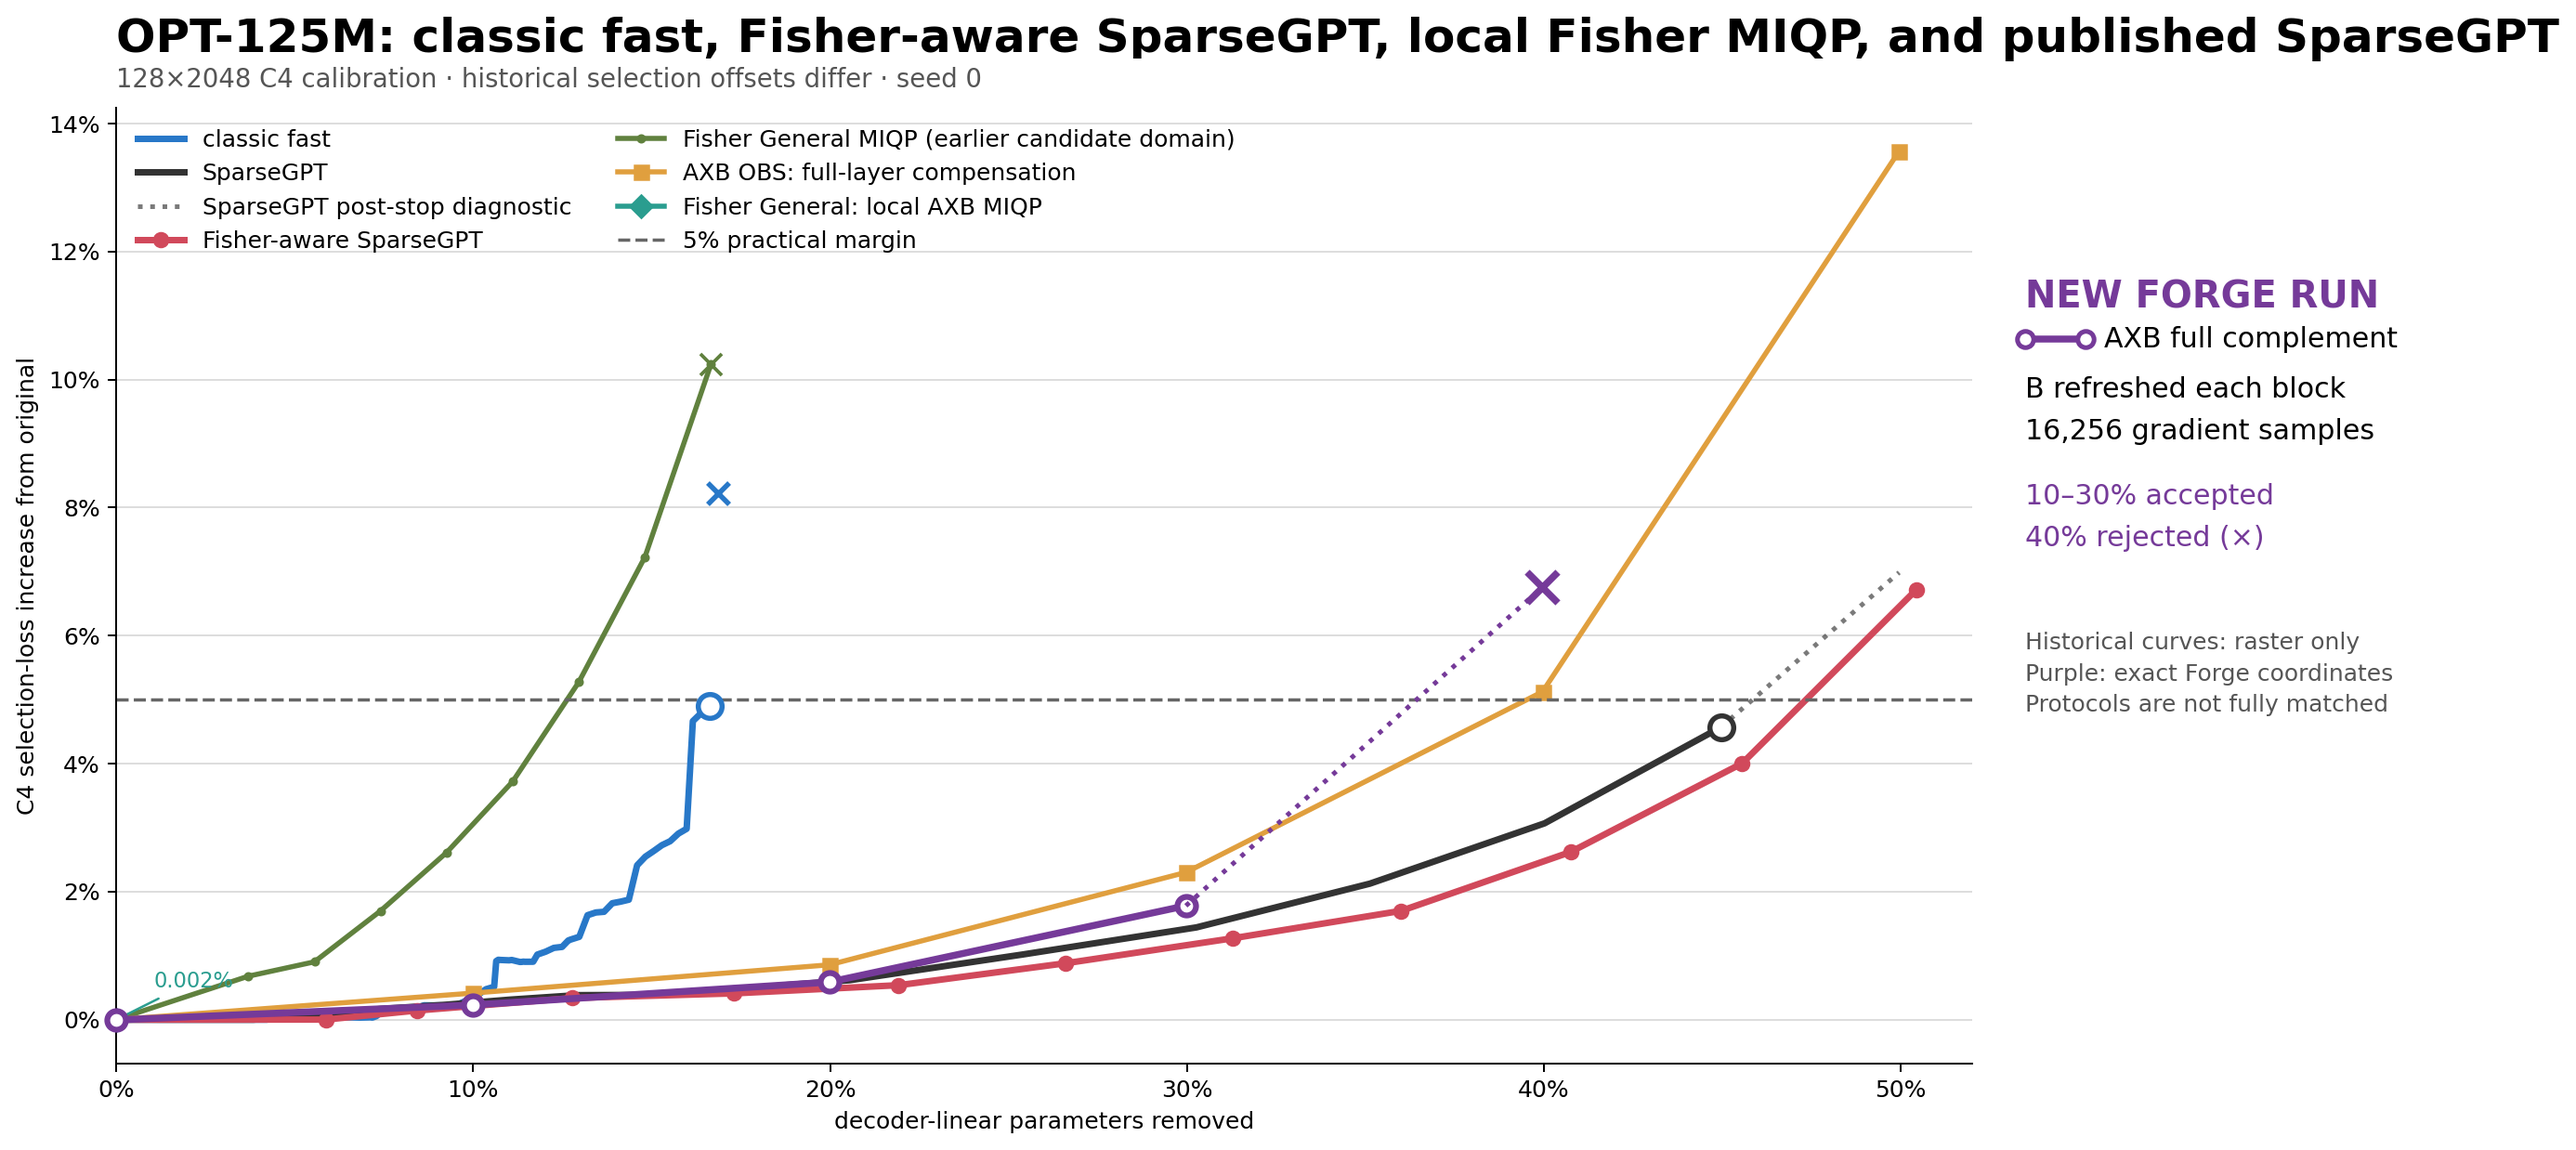
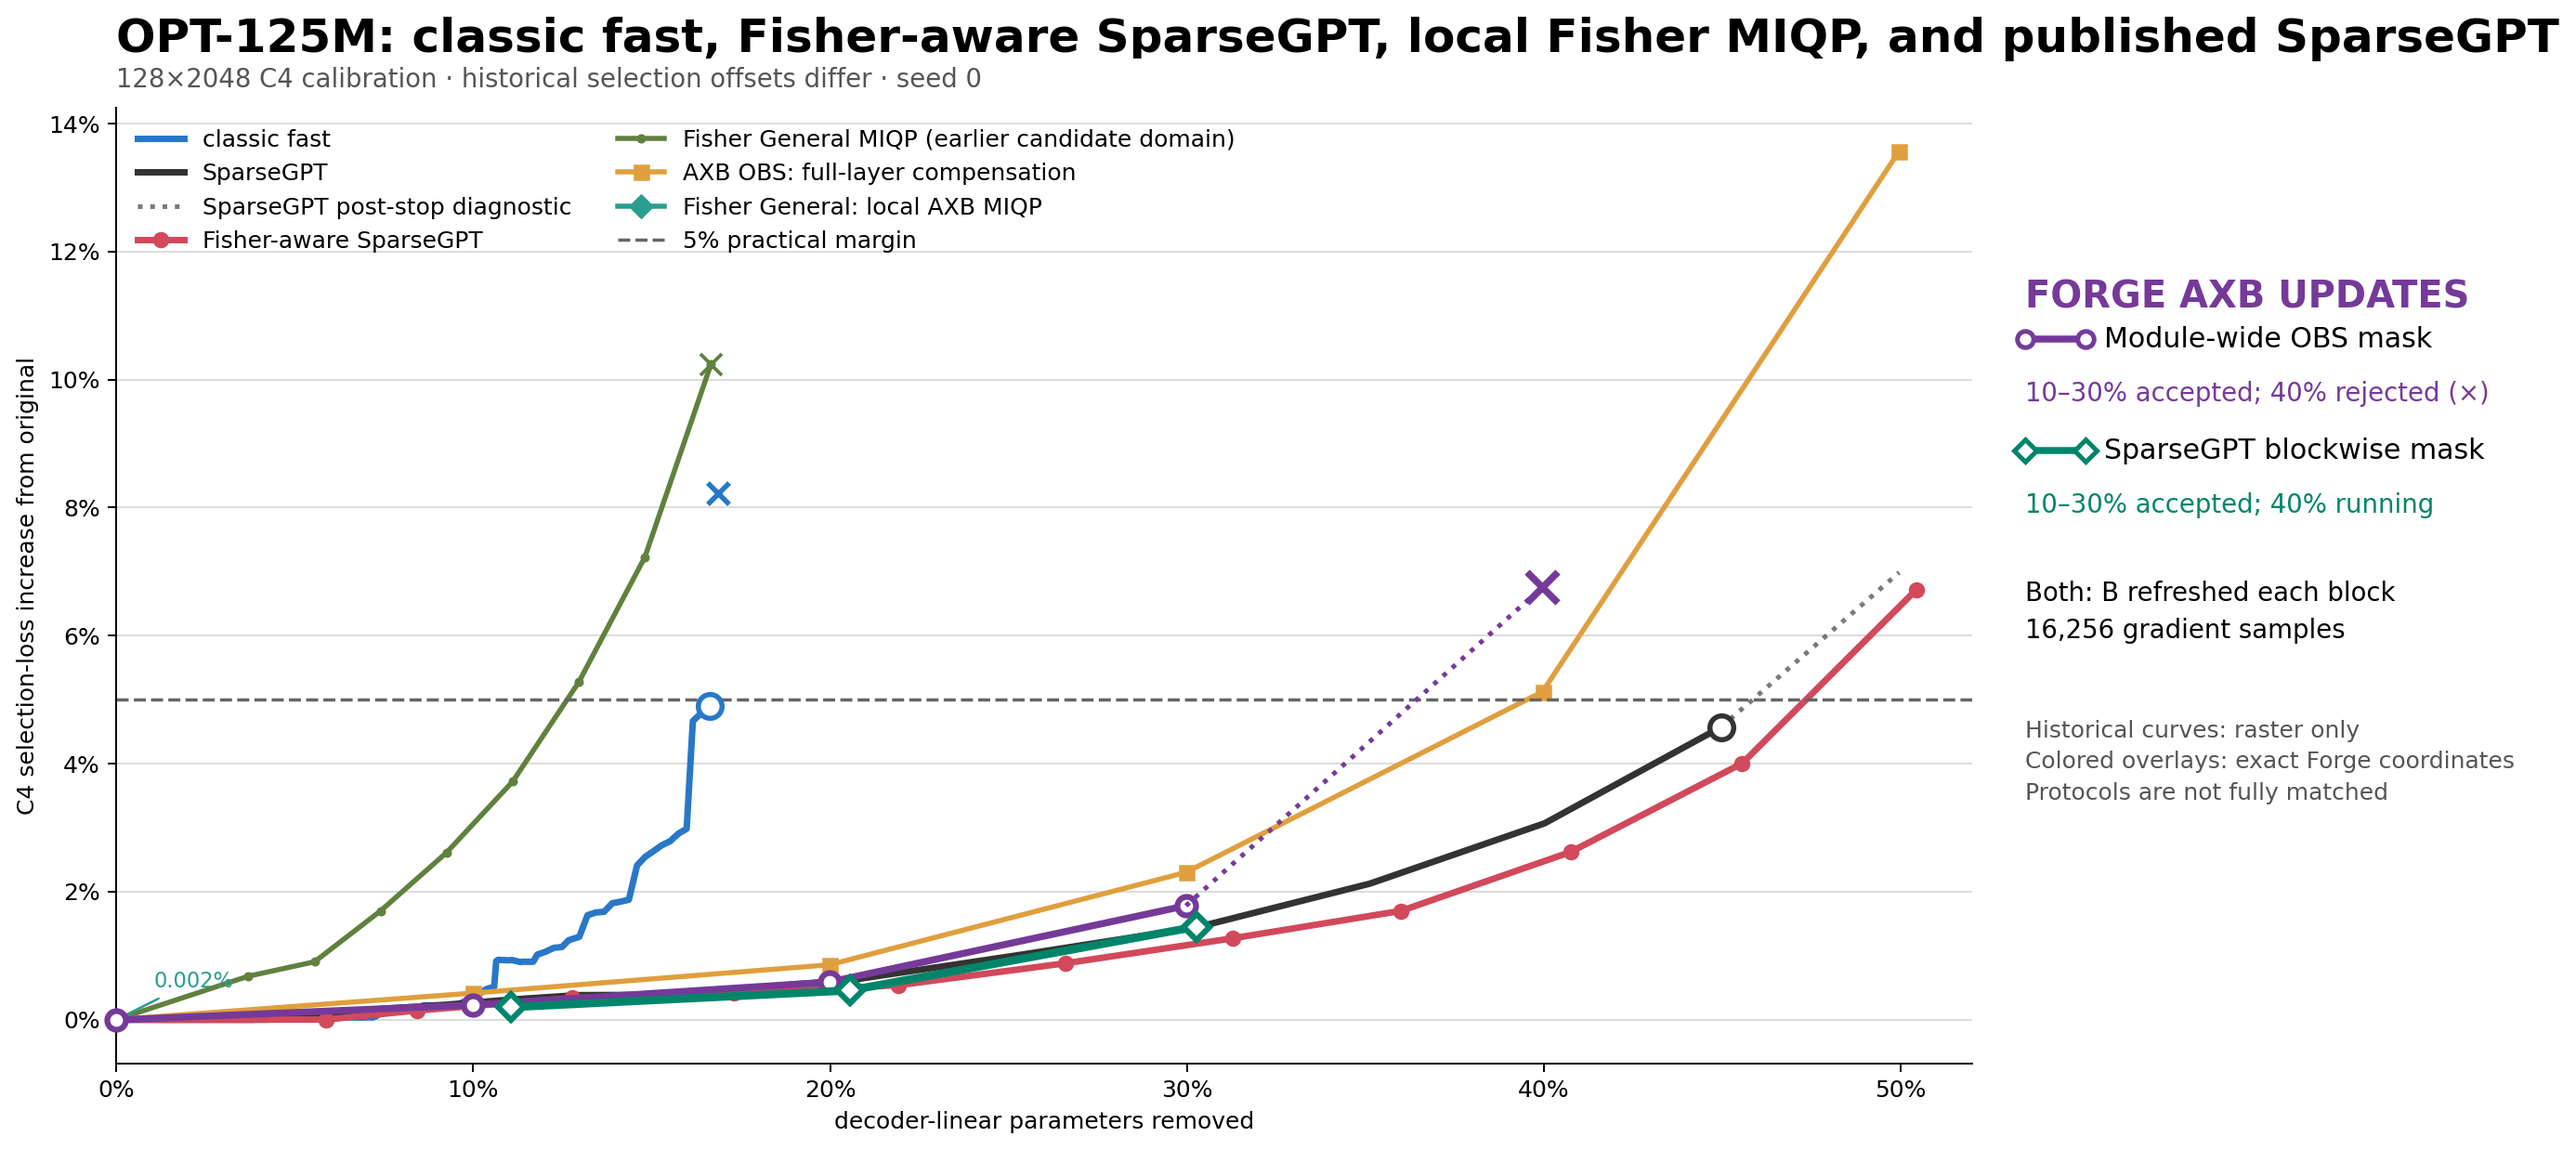
Overlay current OPT SparseGPT-mask complement points

Changed region(s): [[0.7753, 0.2456, 0.9614, 0.706], [0.1861, 0.8288, 0.4032, 0.8901], [0.4032, 0.7981, 0.4652, 0.8288]]

diff --git a/plot_results.py b/plot_results.py
@@ -40,21 +40,25 @@ def opt_historical_overlay(store: Path, output: Path) -> None:
     height, width = image.shape[:2]
     if (width, height) != (2773, 1238):
         raise ValueError("historical OPT image dimensions changed; axis anchors need updating")
-    candidates = []
+    candidates = {"module_obs": [], "sparsegpt": []}
     for selection in ExperimentStore(store).all_selections():
         config = selection.experiment.config
         if config.benchmark.name != "opt" or config.branch.name != "fisher_complement":
             continue
         options = config.branch.options
         if (options.get("b_refresh") != "layer" or
-                options.get("mask_rule", "module_obs") != "module_obs" or
                 int(options.get("max_layers", 12)) != 12 or
                 options.get("modules", "all") != "all"):
             continue
-        candidates.extend(run for run in selection.runs or [] if run.status == "done")
-    if not candidates:
+        rule = options.get("mask_rule", "module_obs")
+        if rule in candidates:
+            candidates[rule].extend(
+                run for run in selection.runs or []
+                if run.status in {"done", "running"} and
+                (run.path / "result.json").exists())
+    if not candidates["module_obs"]:
         raise SystemExit("no completed refreshed-B OPT complement Forge run found")
-    run = max(candidates, key=lambda item: item.launched_on)
+    run = max(candidates["module_obs"], key=lambda item: item.launched_on)
     result = json.loads((run.path / "result.json").read_text())
     if result.get("status") != "complete":
         raise ValueError("Forge OPT result is incomplete")
@@ -85,17 +89,59 @@ def opt_historical_overlay(store: Path, output: Path) -> None:
         axis.plot((x[-1], rx), (y[-1], ry), color=purple, linewidth=2,
                   linestyle=":", zorder=5)
         axis.scatter(rx, ry, marker="x", color=purple, linewidths=3, s=175, zorder=6)
-    axis.text(2180, 300, "NEW FORGE RUN", color=purple, fontsize=16,
+    current = None
+    if candidates["sparsegpt"]:
+        run = max(candidates["sparsegpt"], key=lambda item: item.launched_on)
+        current = json.loads((run.path / "result.json").read_text())
+        completed = [row for row in current["curve"]
+                     if row.get("admissible") is True]
+        if len(completed) > 1:
+            green = "#00856a"
+            axis.plot([xpixel(row["removed_percent"]) for row in completed],
+                      [ypixel(row["loss_damage_percent"]) for row in completed],
+                      color=green, linewidth=3.5, marker="D", markersize=8,
+                      markerfacecolor="white", markeredgewidth=2.5, zorder=6)
+            rejected = next((row for row in current["curve"]
+                             if row.get("admissible") is False), None)
+            if rejected:
+                last = completed[-1]
+                axis.plot((xpixel(last["removed_percent"]),
+                           xpixel(rejected["removed_percent"])),
+                          (ypixel(last["loss_damage_percent"]),
+                           ypixel(rejected["loss_damage_percent"])),
+                          color=green, linewidth=2, linestyle=":", zorder=6)
+                axis.scatter(xpixel(rejected["removed_percent"]),
+                             ypixel(rejected["loss_damage_percent"]),
+                             marker="x", color=green, linewidths=3, s=175, zorder=7)
+    axis.text(2180, 300, "FORGE AXB UPDATES", color=purple, fontsize=16,
               fontweight="bold", va="top")
     axis.plot((2180, 2245), (365, 365), color=purple, linewidth=3, marker="o",
               markersize=7, markerfacecolor="white", markeredgewidth=2, zorder=5)
-    axis.text(2265, 365, "AXB full complement", fontsize=12, va="center")
-    axis.text(2180, 405, "B refreshed each block", fontsize=12, va="top")
-    axis.text(2180, 450, "16,256 gradient samples", fontsize=12, va="top")
-    axis.text(2180, 520, "10–30% accepted", color=purple, fontsize=12, va="top")
-    axis.text(2180, 565, "40% rejected (×)", color=purple, fontsize=12, va="top")
-    axis.text(2180, 680, "Historical curves: raster only\n"
-              "Purple: exact Forge coordinates\n"
+    axis.text(2265, 365, "Module-wide OBS mask", fontsize=12, va="center")
+    axis.text(2180, 410, "10–30% accepted; 40% rejected (×)",
+              color=purple, fontsize=11, va="top")
+    if current is not None:
+        green = "#00856a"
+        axis.plot((2180, 2245), (485, 485), color=green, linewidth=3,
+                  marker="D", markersize=7, markerfacecolor="white",
+                  markeredgewidth=2, zorder=6)
+        axis.text(2265, 485, "SparseGPT blockwise mask", fontsize=12,
+                  va="center")
+        accepted_targets = [round(100 * row["target_sparsity"])
+                            for row in current["curve"]
+                            if row.get("admissible") is True and
+                            row.get("target_sparsity", 0) > 0]
+        next_target = next((round(100 * run["target_sparsity"])
+                            for run in current.get("runs", [])
+                            if run.get("status") == "running"), None)
+        status = (f"; {next_target}% running" if next_target is not None else "")
+        axis.text(2180, 530, f"10–{max(accepted_targets)}% accepted{status}"
+                  if accepted_targets else "No accepted targets yet",
+                  color=green, fontsize=11, va="top")
+    axis.text(2180, 625, "Both: B refreshed each block", fontsize=11, va="top")
+    axis.text(2180, 665, "16,256 gradient samples", fontsize=11, va="top")
+    axis.text(2180, 775, "Historical curves: raster only\n"
+              "Colored overlays: exact Forge coordinates\n"
               "Protocols are not fully matched",
               fontsize=10, color="#555555", va="top", linespacing=1.5)
     output.parent.mkdir(parents=True, exist_ok=True)
